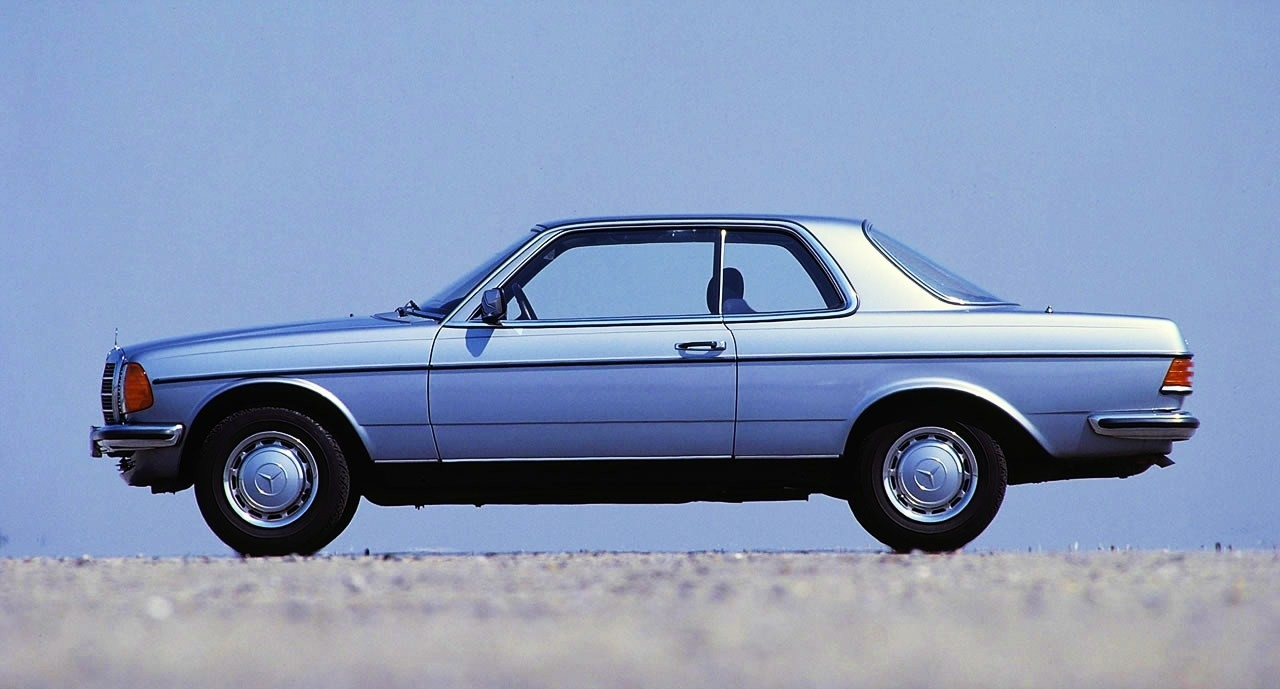
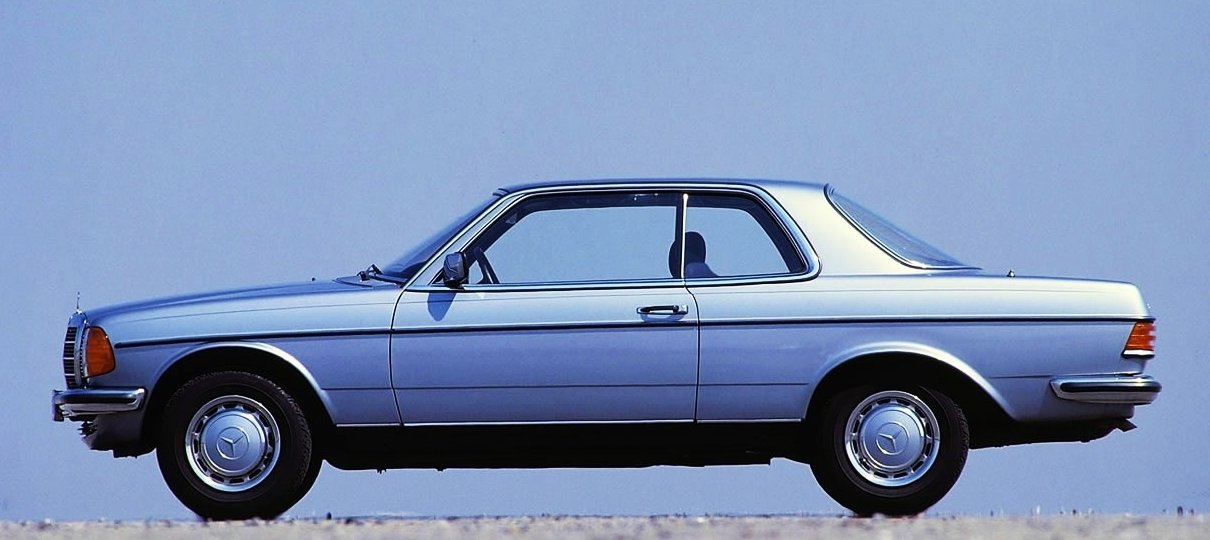
piyopiyo246

diff --git a/pic/mb_img_ce.html b/pic/mb_img_ce.html
@@ -117,7 +117,7 @@
 	<a id="w123" href="http://de.wikipedia.org/wiki/Mercedes-Benz_Baureihe_123#Coup.C3.A9_.28C_123.29" class="ico-wiki" title="Wikipedia(D)_Mercedes-Benz_Baureihe_123#Coup&eacute; (C 123)"></a>
 	<h3 class="i m0">W123-Coup&eacute;</h3>
 	<p class="i m1">06/1977 - 08/1985</p><br>
-		<img src="style/ce/w123c.jpg" alt="Mercedes,W123c" width="1280" height="689"><br>
+		<img src="style/ce/w123c.jpg" alt="Mercedes,W123c" width="1210" height="540"><br>
 		<img src="style/ce/w123c_f.jpg" alt="Mercedes,W123c,front" width="667" height="358">
 		<img src="style/ce/w123c_d.jpg" alt="Mercedes,W123c,dashboard" width="537" height="358"><br>
 		<img src="style/ce/w123c_r.jpg" alt="Mercedes,W123c,rear" width="559" height="419">
